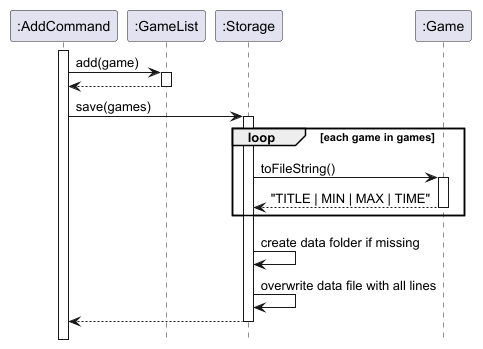
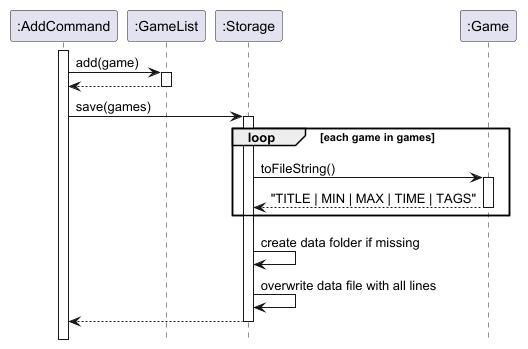
Update the Storage section of the DG for tags
Tagging added an optional fifth TAGS field to the data file, but the Storage section still described the old four-field format. This updates the format, the loading checks and the design considerations, and adds Tag to the class diagram.

diff --git a/docs/DeveloperGuide.md b/docs/DeveloperGuide.md
@@ -51,13 +51,20 @@ This is handled by the `Storage` component in the `seedu.gamevault.storage` pack
 * `Storage` reads the data file when the app starts and rewrites it whenever the collection changes.
 * `GameDecoder` turns one line of the file back into a `Game`, checking that the line is valid.
 
-Each game is stored on its own line in the format `TITLE | MIN | MAX | TIME`, where `MIN` and `MAX` are the
-minimum and maximum player counts and `TIME` is the play time in minutes. `TIME` is left out when the user has not
-recorded a play time. For example:
+Each game is stored on its own line in the format `TITLE | MIN | MAX | TIME | TAGS`, where `MIN` and `MAX` are the
+minimum and maximum player counts, `TIME` is the play time in minutes and `TAGS` is the game's tags, separated by
+commas. `TIME` and `TAGS` are optional:
+
+* A game with no tags has no `TAGS` field, and `TIME` is left out too if no play time is recorded.
+* A game with tags always has `TAGS` as the fifth field, so `TIME` is left blank if there is no play time.
+
+For example:
 
 ```
 Catan | 3 | 4 | 60
-Codenames | 4 | 8
+Love Letter | 2 | 4
+Azul | 2 | 4 | 45 | family,strategy
+Codenames | 4 | 8 |  | party,word
 ```
 
 The class diagram below shows how these classes relate to the rest of the app.
@@ -65,8 +72,9 @@ The class diagram below shows how these classes relate to the rest of the app.
 ![Storage class diagram](images/StorageClassDiagram.png)
 
 `GameVault` owns a single `Storage` object, created with the path of the data file. Commands that change the
-collection (currently `add`, `delete` and `edit`) receive the same `Storage` object in `Command#execute(...)` and
+collection (currently `add`, `delete`, `edit`, `tag`, `untag` and `sort`) receive the same `Storage` object in `Command#execute(...)` and
 use it to save. `Storage` depends on `GameDecoder` only for loading; saving uses `Game#toFileString()` directly.
+`GameDecoder` uses `Tag` to check each tag in the file with the same rules as tags typed by the user.
 
 #### Loading games at startup
 
@@ -81,12 +89,15 @@ The sequence diagram below shows what happens.
    `load()` returns an empty list, since a new user simply has no games yet.
 3. Otherwise, `load()` reads every line of the file. Blank lines are ignored. Each other line is passed to
    `GameDecoder#decodeLine(...)`, which splits it on `|`, trims each part and checks that:
-   * there are three or four parts,
+   * there are three to five parts,
    * `TITLE` is not empty,
    * `MIN` and `MAX` are whole numbers of at least 1,
-   * `MAX` is not less than `MIN`, and
+   * `MAX` is not less than `MIN`,
    * `TIME`, if present and not blank, is a whole number of at least 1. A missing or blank `TIME` means no play
-     time is recorded.
+     time is recorded, and
+   * each tag in `TAGS`, if present, follows the tag rules once `Tag#normalise(...)` has trimmed it and put it in
+     lower case, as checked by `Tag#isValid(...)`. Blank entries (e.g. from a trailing comma) and repeated tags
+     are ignored.
 4. A valid line becomes a `Game`. An invalid line causes `GameDecoder` to throw a `GameVaultException` whose
    message says exactly what is wrong (e.g. `MAX (2) is less than MIN (3)`). `Storage` catches it, records the
    line number, the line and the reason in its `skippedLines` list, and moves on to the next line.
@@ -122,13 +133,15 @@ unexpectedly. The sequence diagram below shows this for the `add` command.
   * Pros: Easy to implement with no extra libraries. Users can read and edit the file in any text editor.
   * Cons: The `|` character cannot be used in a game title without adding an escaping scheme.
 * **Alternative 2:** JSON, using a library such as Jackson or Gson.
-  * Pros: Handles special characters and nested data (e.g. tags for each game) easily.
+  * Pros: Handles special characters and lists of values (such as a game's tags) without extra rules.
   * Cons: Adds a third-party dependency, and the file is harder for users to edit by hand.
 
 We chose plain text because each game has only a few simple fields, so the extra power of JSON is not needed yet.
-New fields are added as optional fields at the end of the line: when play time was added, `TIME` became an optional
-fourth field, so data files saved by older versions still load. If games gain many more fields later, switching to
-JSON would only require changes inside the `Storage` component.
+New fields are added as optional fields at the end of the line, so data files saved by older versions still load:
+when play time was added, `TIME` became an optional fourth field, and when tags were added, `TAGS` became an
+optional fifth field. Tags may only contain letters, digits and hyphens, so a tag can never contain the `|` or `,`
+that separate fields and tags, and no escaping is needed. If games gain many more fields later, switching to JSON
+would only require changes inside the `Storage` component.
 
 **Aspect: What to do with invalid lines when loading**
 
